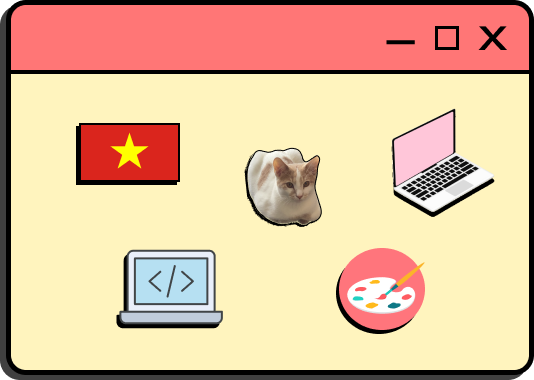
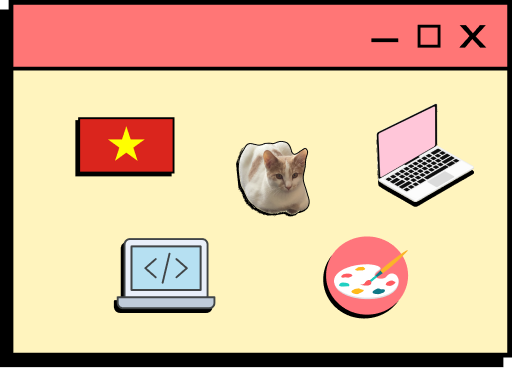
Fix shadow width and change images in About page and Projects page

diff --git a/src/pages/ProjectsPage.js b/src/pages/ProjectsPage.js
@@ -13,7 +13,7 @@ export const ProjectsPage = () => {
 
             <div className='container mx-auto px-10 lg:px-24 mb-20 lg:mb-32 lg:flex lg:flex-row justify-between items-center gap-10'>
                 <div className="lg:max-w-1/2 lg:text-left space-y-5">
-                    <div className="bg-custom-baby-blue max-w-max px-5 md:px-10 pt-5 md:pt-8 pb-8 md:pb-14 shadow-project-shadow-left rounded-lg border-3 border-black">
+                    <div className="bg-custom-baby-blue max-w-max px-3 md:px-5 pt-3 shadow-dark-shadow-lg-left border-3 border-black">
                         <img src="/projects-img/StudyPal.png" alt="StudyPal website"></img>
                     </div>
                 </div>
@@ -43,8 +43,8 @@ export const ProjectsPage = () => {
                 </div>
 
                 <div className="lg:w-1/2 lg:text-left space-y-5">
-                    <div className="bg-red-500 px-5 md:px-10 pt-5 md:pt-8 pb-8 md:pb-14 shadow-project-shadow-left lg:shadow-project-shadow-right rounded-lg border-3 border-black">
-                        <video className="w-full h-full border-3 border-black" autoPlay controls>
+                    <div className="bg-red-500 px-5 md:px-7 pt-5 pb-8 md:pb-14 shadow-dark-shadow-lg-left lg:shadow-dark-shadow-lg border-3 border-black">
+                        <video className="w-full h-full border-2 border-black rounded-xl" autoPlay controls>
                             <source src="/video/Pawfect Match.mp4"></source>
                             Pawfect Match run-through video    
                         </video>
@@ -54,7 +54,7 @@ export const ProjectsPage = () => {
 
             <div className='container mx-auto px-10 lg:px-24 mb-20 lg:mb-32 lg:flex lg:flex-row justify-between items-center gap-10'>
                 <div className="lg:max-w-1/2 text-left space-y-5">
-                    <div className="bg-purple-400 max-w-max px-5 md:px-10 pt-5 md:pt-8 pb-8 md:pb-14 shadow-project-shadow-left rounded-lg border-3 border-black">
+                    <div className="bg-purple-400 max-w-max px-5 md:px-10 pt-5 md:pt-8 pb-8 md:pb-14 shadow-dark-shadow-lg-left rounded-lg border-3 border-black">
                         <img src="/projects-img/Portfolio.png" alt="Portfolio website"></img>
                     </div>
                 </div>
@@ -80,7 +80,7 @@ export const ProjectsPage = () => {
 
             <div className='container mx-auto px-10 lg:px-24 mb-20 lg:mb-32 lg:flex lg:flex-row justify-between items-center gap-10'>
                 <div className="lg:max-w-1/2 text-left space-y-5">
-                    <div className="bg-yellow-200 max-w-max px-5 md:px-10 pt-5 md:pt-8 pb-8 md:pb-14 shadow-project-shadow-left rounded-lg border-3 border-black">
+                    <div className="bg-yellow-200 max-w-max px-5 md:px-10 pt-5 md:pt-8 pb-8 md:pb-14 shadow-dark-shadow-lg-left rounded-lg border-3 border-black">
                         <img src="/projects-img/NavigateDal.png" alt="NavigateDal mobile design"></img>
                     </div>
                 </div>
@@ -110,7 +110,7 @@ export const ProjectsPage = () => {
                 </div>
 
                 <div className="lg:max-w-1/2 text-left space-y-5">
-                    <div className="bg-lime-300 max-w-max px-5 md:px-10 pt-5 md:pt-8 pb-8 md:pb-14 shadow-project-shadow-left lg:shadow-project-shadow-right rounded-lg border-3 border-black">
+                    <div className="bg-lime-300 max-w-max px-5 md:px-10 pt-5 md:pt-8 pb-8 md:pb-14 shadow-dark-shadow-lg-left lg:shadow-dark-shadow-lg rounded-lg border-3 border-black">
                         <img src="/projects-img/SafelyHome.png" alt="SafelyHome mobile design"></img>
                     </div>
                 </div>

diff --git a/tailwind.config.js b/tailwind.config.js
@@ -10,11 +10,9 @@ module.exports = {
         Clash: ["Clash Display", 'sans-serif'],
       },
       boxShadow: {
-        'dark-shadow': '2px 3px 0px rgba(0, 0, 0, 1)',
-        'dark-shadow-lg': '6px 8px 0px rgba(0, 0, 0, 1)',
-        'dark-shadow-lg-left': '-6px 8px 0px rgba(0, 0, 0, 1)',
-        'project-shadow-left': '-5px 6px 0px rgba(0, 0, 0, 1)',
-        'project-shadow-right': '5px 6px 0px rgba(0, 0, 0, 1)',
+        'dark-shadow': '3px 4px 0px rgba(0, 0, 0, 1)',
+        'dark-shadow-lg': '9px 10px 0px rgba(0, 0, 0, 1)',
+        'dark-shadow-lg-left': '-9px 10px 0px rgba(0, 0, 0, 1)',
       },
       colors: {
         'primary': '#FEFFF0',
